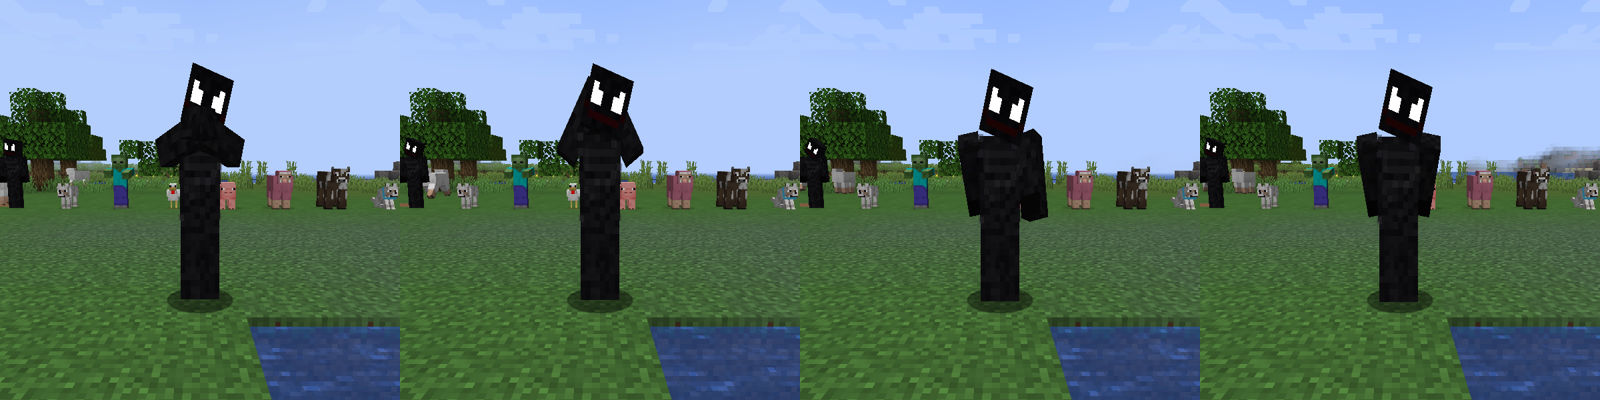
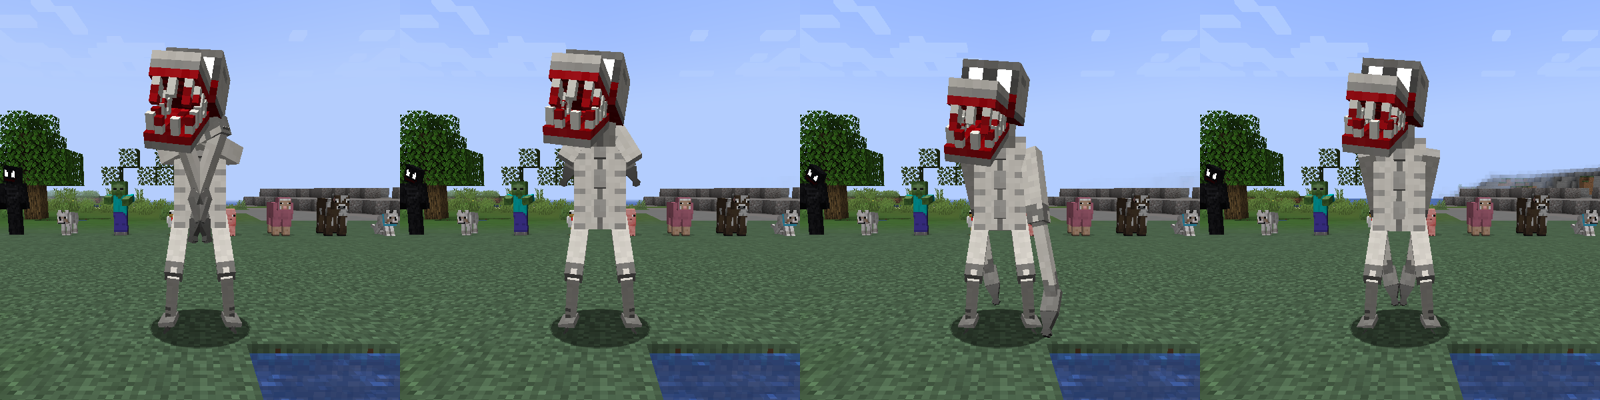
Make the pale crawler do the Macarena
It rears up on its hind legs and dances with its long arms (forearms
fold to reach shoulders and the back of its head), jaw chomping to the
beat. Shared pose table moved to MacarenaDance.

Claude-Session: https://claude.ai/code/session_01Gv44GSyfjghHcBPor9CnoT

diff --git a/src/main/java/com/foglurker/client/CrawlerModel.java b/src/main/java/com/foglurker/client/CrawlerModel.java
@@ -10,6 +10,7 @@ import net.minecraft.client.model.geom.builders.CubeListBuilder;
 import net.minecraft.client.model.geom.builders.LayerDefinition;
 import net.minecraft.client.model.geom.builders.MeshDefinition;
 import net.minecraft.client.model.geom.builders.PartDefinition;
+import com.foglurker.entity.MacarenaDance;
 import net.minecraft.util.Mth;
 
 /**
@@ -145,6 +146,52 @@ public class CrawlerModel extends HierarchicalModel<FogLurkerEntity> {
         }
     }
 
+    /** Rears up on its hind legs and does the Macarena with its far-too-long arms. */
+    private void dance(float t) {
+        float countF = t / MacarenaDance.TICKS_PER_COUNT;
+        int count = Math.floorMod((int) Math.floor(countF), MacarenaDance.COUNTS);
+        float within = countF - (float) Math.floor(countF);
+        float[] from = MacarenaDance.pose(count - 1);
+        float[] to = MacarenaDance.pose(count);
+        float k = Math.min(1F, within * 2.5F);
+        k = k * k * (3 - 2 * k);
+        float[] p = new float[8];
+        for (int i = 0; i < 8; i++) {
+            p[i] = Mth.lerp(k, from[i], to[i]);
+        }
+
+        float bounce = Mth.abs(Mth.sin(countF * Mth.PI)) * 0.8F;
+        float sway = count >= 12 && count <= 14 ? Mth.sin(countF * Mth.PI) * 1.6F : 0F;
+        float hop = count == 15 ? Mth.sin(within * Mth.PI) * 6F : 0F;
+        float lift = bounce + hop;
+
+        // Upright torso standing on bent hind legs (hips 18.5 px up, chest rising above them).
+        body.setPos(sway, 5.5F - lift, 1.0F);
+        body.setRotation(Mth.HALF_PI - 0.12F, 0F, -sway * 0.05F);
+        rightLeg.setPos(-3.5F + sway, 6.0F - lift, 1.0F);
+        rightLeg.setRotation(-0.6F, 0F, 0.12F);
+        rightShin.xRot = 1.2F;
+        leftLeg.setPos(3.5F + sway, 6.0F - lift, 1.0F);
+        leftLeg.setRotation(-0.6F, 0F, -0.12F);
+        leftShin.xRot = 1.2F;
+
+        // Head on top, grinning, jaw chomping on every beat.
+        neck.setPos(sway * 0.8F, -9.0F - lift, -0.5F);
+        neck.setRotation(-1.0F, 0F, 0F);
+        head.xRot = 1.0F + 0.12F * Mth.sin(countF * 2 * Mth.PI);
+        head.yRot = 0F;
+        head.zRot = 0.25F;
+        jaw.xRot = 0.35F + 0.35F * Mth.abs(Mth.sin(countF * Mth.PI));
+
+        // Shoulders at the top of the torso; the Macarena itself.
+        rightArm.setPos(-5.5F + sway, -6.5F - lift, 0.5F);
+        rightArm.setRotation(p[0], p[1], p[2]);
+        rightForearm.setRotation(p[3], 0F, 0F);
+        leftArm.setPos(5.5F + sway, -6.5F - lift, 0.5F);
+        leftArm.setRotation(p[4], p[5], p[6]);
+        leftForearm.setRotation(p[7], 0F, 0F);
+    }
+
     @Override
     public ModelPart root() {
         return root;
@@ -154,6 +201,10 @@ public class CrawlerModel extends HierarchicalModel<FogLurkerEntity> {
     public void setupAnim(FogLurkerEntity e, float limbSwing, float limbSwingAmount, float ageInTicks,
                           float netHeadYaw, float headPitch) {
         this.root().getAllParts().forEach(ModelPart::resetPose);
+        if (e.isDancing()) {
+            dance(e.danceTime(ageInTicks - (int) ageInTicks));
+            return;
+        }
         boolean aggressive = e.isAggressive();
         float walk = limbSwing * 0.55F;
         float amount = Math.min(1.0F, limbSwingAmount * 1.6F);

diff --git a/src/main/java/com/foglurker/entity/MacarenaDance.java b/src/main/java/com/foglurker/entity/MacarenaDance.java
@@ -20,6 +20,43 @@ public final class MacarenaDance {
     private MacarenaDance() {
     }
 
+    // Upper arm {xRot, yRot, zRot, forearm bend} per move, right arm (left is mirrored).
+    private static final float[][] RIGHT_MOVES = {
+            {-1.5708F, 0F, 0F, 0F},          // arm out, palm down
+            {-1.42F, 0F, -0.35F, 0F},        // palm up
+            {-1.9F, -0.95F, 0F, 2.3F},       // hand to the other shoulder
+            {-3.35F, 0F, 0.55F, -2.2F},      // hand behind the head
+            {-0.55F, -0.55F, 0.35F, 0.3F},   // hand to the other hip
+            {0.55F, 0F, -0.15F, -0.4F},      // hand to the back pocket
+    };
+    private static final float[][] POSES = buildPoses();
+
+    /**
+     * Arm angles for a count: {right x, y, z, right forearm bend, left x, y, z, left forearm bend}.
+     * Each count moves one arm (right, left, right, left...); counts 12-15 hold.
+     */
+    public static float[] pose(int count) {
+        return POSES[Math.floorMod(count, COUNTS)];
+    }
+
+    private static float[][] buildPoses() {
+        float[][] poses = new float[COUNTS][];
+        float[] right = {0F, 0F, 0F, 0F};
+        float[] left = {0F, 0F, 0F, 0F};
+        for (int c = 0; c < COUNTS; c++) {
+            if (c < 12) {
+                float[] m = RIGHT_MOVES[c / 2];
+                if (c % 2 == 0) {
+                    right = m;
+                } else {
+                    left = new float[]{m[0], -m[1], -m[2], m[3]};
+                }
+            }
+            poses[c] = new float[]{right[0], right[1], right[2], right[3], left[0], left[1], left[2], left[3]};
+        }
+        return poses;
+    }
+
     public static int count(int danceTick) {
         return (danceTick / TICKS_PER_COUNT) % COUNTS;
     }

diff --git a/src/gametest/java/com/foglurker/test/FogLurkerGameTests.java b/src/gametest/java/com/foglurker/test/FogLurkerGameTests.java
@@ -547,7 +547,7 @@ public final class FogLurkerGameTests {
                     FogLurkerEntity::isDancing);
             check(dancers.size() == 1 && before == 0, "expected exactly one dancer, found " + dancers.size());
             FogLurkerEntity dancer = dancers.get(0);
-            check(dancer.isInvulnerable() && dancer.getDisguise() == Disguise.NONE, "dancer should be the harmless watcher");
+            check(dancer.isInvulnerable() && dancer.getDisguise() == Disguise.CRAWLER, "dancer should be the harmless pale crawler");
             float yaw = dancer.getYRot();
             h.runAfterDelay(com.foglurker.entity.MacarenaDance.TICKS_PER_COUNT * 15 + 4, () ->
                     check(Math.abs(net.minecraft.util.Mth.wrapDegrees(dancer.getYRot() - yaw + 90)) < 1,

diff --git a/src/main/java/com/foglurker/entity/FogLurkerEntity.java b/src/main/java/com/foglurker/entity/FogLurkerEntity.java
@@ -216,7 +216,7 @@ public class FogLurkerEntity extends PathfinderMob {
 
     /** Harmless, invulnerable, dances {@code loops} times through, then vanishes. Never hunts. */
     public void startMacarena(int loops) {
-        setDisguise(Disguise.NONE);
+        setDisguise(Disguise.CRAWLER); // the pale one stands up on its hind legs to dance
         setDisguiseName(null);
         clearEquipment();
         setFlag(FLAG_DANCING, true);

diff --git a/README.md b/README.md
@@ -84,7 +84,7 @@ Minecraft commands use spaces, so `foglurker→spawn` is typed `/foglurker spawn
 | `/foglurker difficulty [mode]` | view: everyone · set: op / host | `very_easy`, `easy`, `medium`, `hard`, `deathwish` (clickable) |
 | `/foglurker geministatus` | op / host | Shows the masked key and tests it |
 | `/foglurker despawn` | cheats / op | Sends it away |
-| `/foglurker-macarena [loops]` | cheats / op | It appears in front of you and does the Macarena (default 3 loops, max 20), then vanishes. Harmless and invulnerable, never counts as a hunt. Also `/foglurker macarena` |
+| `/foglurker-macarena [loops]` | cheats / op | The pale crawler appears in front of you and does the Macarena (default 3 loops, max 20), then vanishes. Harmless and invulnerable, never counts as a hunt. Also `/foglurker macarena` |
 | `/foglurker debugeverything` | op / host | **Temporary.** Checks everything on the server *and* in your game, and lists what passed and failed in chat (see below) |
 | `/flurk voicesnippets terms` | everyone | Shows the voice snippet terms with **[YES] [NO]** buttons |
 | `/fglurk optin` | everyone | Opt in to voice snippets |
@@ -97,7 +97,7 @@ Minecraft commands use spaces, so `foglurker→spawn` is typed `/foglurker spawn
 
 ![The Fog Lurker doing the Macarena](docs/images/macarena.png)
 
-It does the full 16-count dance: arms out palm down, palms up, hands to the shoulders, behind the head, to the hips and to the back pockets, then a hip wiggle and a hop with a quarter turn, bouncing on every beat. The music is an original note-block groove, not the song.
+The pale crawler rears up on its hind legs and does the full 16-count dance with its far-too-long arms (its jaw chomps to the beat): arms out palm down, palms up, hands to the shoulders, behind the head, to the hips and to the back pockets, then a hip wiggle and a hop with a quarter turn, bouncing on every beat. The music is an original note-block groove, not the song.
 
 ### `/foglurker debugeverything` (temporary)
 
